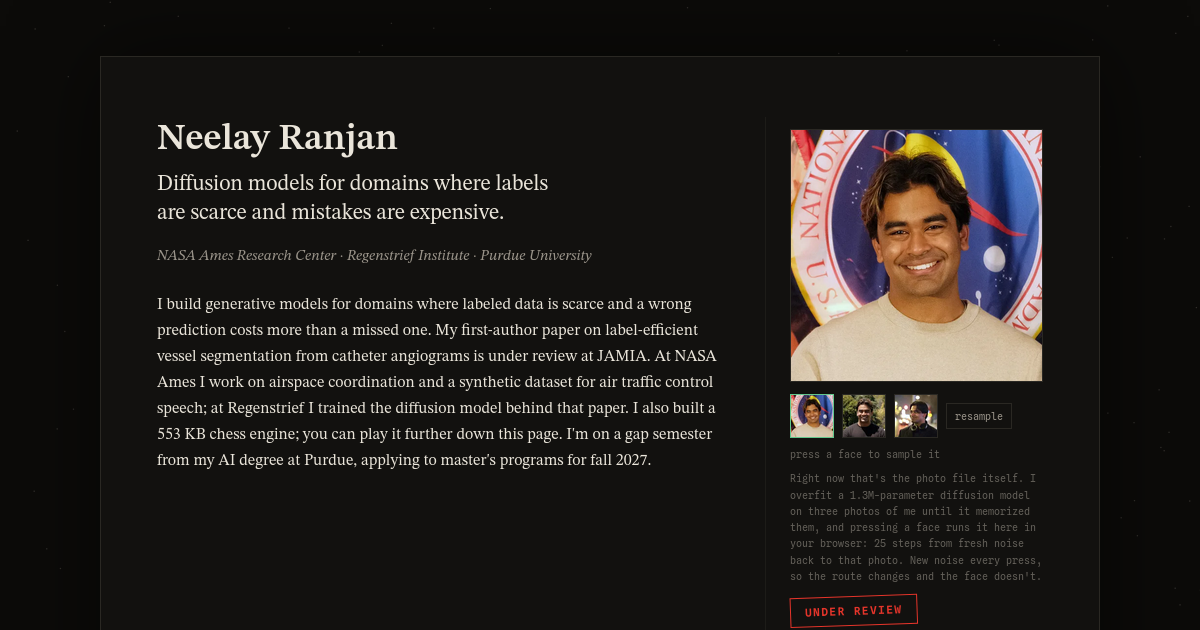
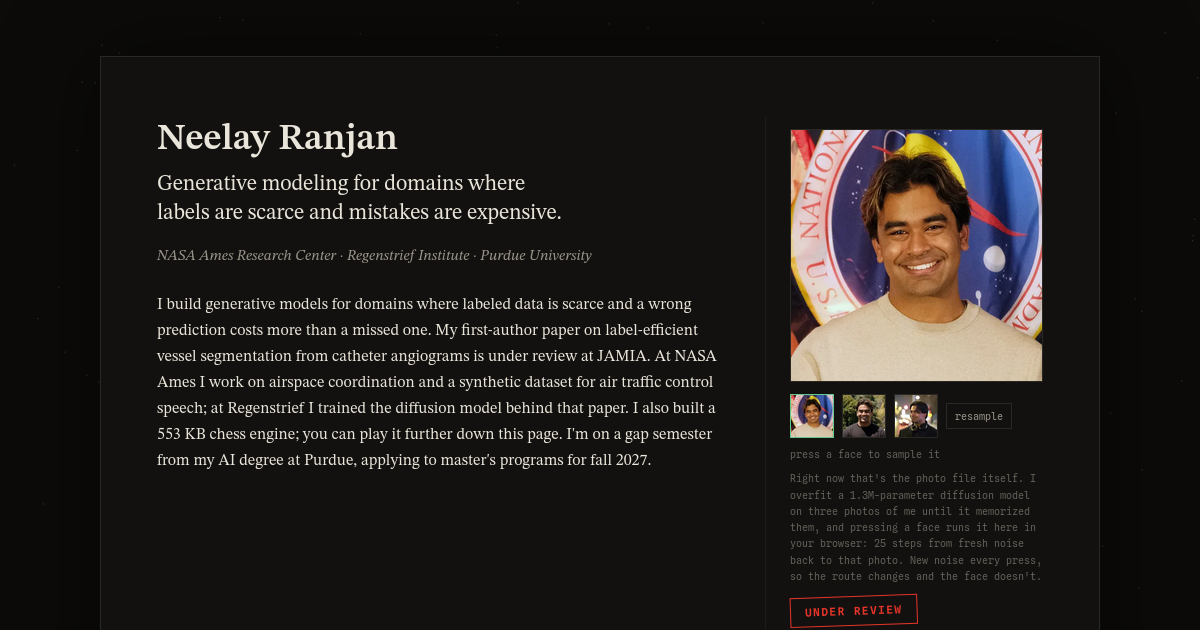
headline framing becomes generative modeling; docs refreshed for the next session
The owner's wording change: the page title, the masthead tagline and
the share blurb now say "generative modeling" instead of "diffusion".
Diffusion stays the concrete specialty in the body copy and figures.
The OG card is regenerated so the unfurl shows the new tagline.

README.md is brought up to date: 15 verify checks plus the hand-run 256
script, the label-efficiency figure in place of the retired wipe, chess
before draw, @vercel/analytics among the runtime deps and its own short
section, the dev-on-3001 / verify-on-3000 convention, prepare-research's
new flags and its test_predictions input, and the image_index vs image_id
trap. CLAUDE.md records the framing call, the analytics dashboard step as
an owner open item, the OG card's page-top rule, and corrects the stale
rationale for verify-headshot-256.mjs.

15 checks, all passing.

Changed region(s): [[0.1233, 0.2714, 0.4625, 0.3619]]

diff --git a/content/copy.ts b/content/copy.ts
@@ -65,12 +65,12 @@
 export const copy = {
   /** <title>, meta description, and the share-card (OG/Twitter) text. */
   meta: {
-    title: "Neelay Ranjan · diffusion for data-scarce, safety-critical systems",
+    title: "Neelay Ranjan · Generative modeling for data-scarce, safety-critical systems",
     siteName: "neelayranjan.dev",
     /** The unfurl description. Concrete, because a share card is the one place a
      *  recruiter or admissions reader sees before deciding whether to click. */
     blurb:
-      "I build diffusion models for domains where labels are scarce and mistakes " +
+      "I build generative models for domains where labels are scarce and mistakes " +
       "are expensive: vessel segmentation from 16 labeled angiograms, a chess " +
       "engine that fits in 553 KB, a transformer that synthesizes a day of FAA " +
       "flight traffic. The chess engine runs live on this page, in your browser, " +
@@ -86,7 +86,7 @@ export const copy = {
      *  Both live inside the single h1, so the page title reads as before. */
     titleName: "Neelay Ranjan",
     titleTagline:
-      "Diffusion models for domains where labels are scarce and mistakes are expensive.",
+      "Generative modeling for domains where labels are scarce and mistakes are expensive.",
     affiliation: "NASA Ames Research Center · Regenstrief Institute · Purdue University",
     /** ~80 words, first person. Numbers here are load-bearing: keep them in
      *  sync with `research.prose` and CLAUDE.md's content facts. */

diff --git a/README.md b/README.md
@@ -1,7 +1,7 @@
 # neelayranjan.dev
 
 Personal portfolio, styled as a dark preprint: a sheet on a live particle-field
-desk, research rendered as interactive figures, and four trained models running
+desk, research rendered as interactive figures, and trained models running
 entirely in the visitor's browser. Shipped 2026-09-12; the previous
 faux-terminal site lives at git tag `v1`.
 
@@ -17,9 +17,9 @@ happens on the visitor's machine.
 
 ```bash
 npm install
-npm run dev          # http://localhost:3000
-npm run build        # production build
-npm start            # serve the build
+npx next dev --port 3001   # the dev server; :3000 is kept free for verification
+npm run build              # production build
+npm start -- -p 3000       # serve the build (what the verify suite targets)
 ```
 
 `predev`/`prebuild` run `scripts/sync-ort.mjs`, copying onnxruntime-web's WASM
@@ -30,68 +30,87 @@ build time.
 ### Verify before believing
 
 ```bash
-node scripts/verify-redesign.mjs           # all 14 checks, against npm start on :3000
+node scripts/verify-redesign.mjs           # all 15 checks, against npm start on :3000
 node scripts/verify-redesign.mjs chess cdf # any check-name substrings run a subset
+node scripts/verify-headshot-256.mjs       # hand-run: the 256 headshot + morph, in node
 node scripts/check-voice.mjs               # copy.ts voice gate (banned words, em-dashes)
 ```
 
 The suite is Playwright-Firefox against a real production build and asserts
 behavior, not HTTP 200s: the desk field pauses under reduced motion, the chess
 hint returns validation vector D, the sampled headshot pixel-matches the photo
-that was pressed.
+that was pressed, the label-efficiency readouts match the served JSON, and a
+Resume click queues the analytics event production would send.
 
 ## The pages
 
-`/` is the paper and carries ~95% of the site: masthead (abstract, the sampled
-author photo, the UNDER REVIEW stamp linking `/lab`), Table 1, three research
-figures (mask wipe, pannable Dice CDF, the synthetic flight-day map), the two
-live demos (draw-a-digit, the chess engine), the experience board, references.
-`/lab` is the supplementary material: the trajectory viewer, MAE-vs-I-JEPA
-retrieval, and a hand-built (and labeled) DDPM-vs-flow-matching illustration.
+`/` is the paper and carries ~95% of the site: masthead (name, tagline,
+abstract, the sampled author photo, the UNDER REVIEW stamp linking `/lab`),
+Table 1, three research figures (the label-efficiency sweep with a mask strip,
+the pannable Dice CDF, the synthetic flight-day map), the two live demos (the
+chess engine, then draw-a-digit), the experience board, references. `/lab` is
+the supplementary material: the trajectory viewer, MAE-vs-I-JEPA retrieval,
+and a hand-built (and labeled) DDPM-vs-flow-matching illustration.
 
 ## Layout
 
 ```
 app/               routes (/, /lab, 404), globals.css (@theme tokens; no tailwind.config)
 components/
-  manuscript/      the design system: Sheet, Row/Note, InstrumentFigure, DeskField, …
+  manuscript/      the design system: Sheet, Row/Note, InstrumentFigure, DeskField, TrackedLink, …
   figures/         the research figures + headshot toy, and shared mask-paint
-  *.tsx            the demo panels (DrawDigit, ChessPanel, JepaPanel, …)
-lib/               loaders, encoders, vendored model math (never reimplemented)
+  *.tsx            the demo panels (ChessPanel, DrawDigit, JepaPanel, …)
+lib/               loaders, encoders, vendored model math (never reimplemented), track.ts
 content/copy.ts    every visitor-facing string
 public/            committed model artifacts and figure data
 scripts/           gates, generators, verification
 external_materials/  gitignored source data the figures are derived from
 ```
 
-Runtime deps are exactly `chess.js` and `onnxruntime-web`. No component
-libraries.
+Runtime deps are exactly `chess.js`, `onnxruntime-web` and `@vercel/analytics`.
+No component libraries.
+
+## Analytics
+
+Vercel Web Analytics: cookieless page views from `<Analytics />` in
+`app/layout.tsx`, plus two custom events defined only in `lib/track.ts`:
+`outbound_link {label}` (Resume, CV, GitHub, ORCID, Email, references) and
+`demo_used {demo}` (once per demo per page load, after real output). Web
+Analytics has to be enabled on the project in the Vercel dashboard. Nothing is
+recorded locally; the verify suite reads the pending `window.vaq` queue instead.
 
 ## Hand-run generators (never wired to prebuild)
 
 | script | what | needs |
 |---|---|---|
-| `prepare-research.mjs` | derives `public/research/` from the paper's data; asserts the headline number before writing; `--image N`, `--accept-csv-drift` | ffmpeg, `external_materials/` |
+| `prepare-research.mjs` | derives `public/research/` from the paper's data; asserts the headline number before writing; `--image N` (retired wipe), `--eff-image N` (Figure 1 strip), `--accept-csv-drift` (required: SAM's re-run masks are stochastic) | ffmpeg, `external_materials/` including `paper1/data/test_predictions/` (ships as base64-encoded `test_pred.zip`) |
 | `gen-icons.py` | the STIX-N favicon set from site tokens | python venv (fontTools, cairosvg) + the STIX variable TTF (see header) |
-| `gen-og.mjs` | screenshots the masthead into `public/og.png` | Playwright, server on :3000 |
+| `gen-og.mjs` | screenshots the top of the page into `public/og.png`; rerun after any masthead copy or layout change | Playwright, server on :3000 |
 | `measure-mono.mjs` | measures a mono's advance (why the ASCII grids keep Geist Mono) | Playwright, dev server |
 
 Outputs are committed; Vercel never runs any of these.
 
-## Two things that will bite you
+## Things that will bite you
 
 **COOP/COEP headers on every route** (`next.config.ts`) give WASM threads
 (draw's classifier: ~1s vs ~17s without). Any future cross-origin
 image/script/iframe needs CORP headers or `crossorigin="anonymous"`.
 
-**`/models/*`, `/ort/*`, `/headshot/*` are cached immutable for a year** —
+**`/models/*`, `/ort/*`, `/headshot/*` are cached immutable for a year**:
 filenames are the cache key, so a retrained model must ship under a new name.
+
+**The metrics CSV's `image_index` is not the image id.** Mask filenames and the
+benchmark are id-space; the CSV is index-space; each run's
+`per_image_metrics.csv` is the bridge. A filename-to-CSV join silently pairs
+the wrong images.
 
 ## The real documentation
 
 `CLAUDE.md` is the working design document: the constitution (never fake a
 model's output; a control is honest or absent), the content facts the copy is
-bound to, every demo's contracts and traps, the figure data pipeline, and the
-measured numbers — several of which contradict a reasonable guess. Read it
-before changing anything with a comment that sounds defensive; the comment is
-probably load-bearing. `docs/v1-design-notes.md` is the v1 archive.
+bound to, every demo's contracts and traps, the figure data pipeline, the open
+items, and the measured numbers, several of which contradict a reasonable
+guess. Read it before changing anything with a comment that sounds defensive;
+the comment is probably load-bearing. `docs/v1-design-notes.md` is the v1
+archive; `docs/superpowers/` holds the redesign's original spec and plan
+(history, superseded where CLAUDE.md disagrees).

diff --git a/CLAUDE.md b/CLAUDE.md
@@ -35,7 +35,11 @@ its mask strip (x0, SAM and ResNet-UNet across the budgets, image 333).
 Same day: the masthead h1 split into the name at display size and the thesis
 line smaller beneath it (`titleName` / `titleTagline`), and the OG card was
 regenerated (`gen-og.mjs` now frames the top of the page; its old scroll-to-
-Table-1 logic cut the name off once the headshot rail grew).
+Table-1 logic cut the name off once the headshot rail grew). Also 2026-09-13:
+Figure 1's strip image became 333 (x0 must visibly beat SAM at 16 labels),
+its whiskers went faint, chess moved ahead of draw, Vercel Web Analytics was
+wired (see Stack), and the headline framing became "generative modeling"
+(title, tagline, share blurb; OG card regenerated to match).
 
 **Verification: `scripts/verify-redesign.mjs`** — 15 named checks,
 Playwright-Firefox against a real `npm run build && npm start` on :3000, never
@@ -82,8 +86,13 @@ change touching a demo, a figure, or the page shell.
    `init+strength` case is a structural smoke (step count + finiteness), so the
    forward-noising branch is unpinned vendored math. Ask the model owner for an
    init+strength case in `vectors/`.
-4. The mobile draw-demo bugs (Known bugs below) are open.
-5. Much later: a third headliner demo, a **live network-security honeypot**
+4. **Enable Web Analytics in the Vercel dashboard** (owner step; the site side
+   shipped 2026-09-13). Until it's on, production's `/_vercel/insights/script.js`
+   404s and nothing records. Then confirm the plan ingests custom events: an
+   empty Events tab after real clicks means it doesn't. The Vercel connector in
+   this environment reports zero teams, so neither can be checked from here.
+5. The mobile draw-demo bugs (Known bugs below) are open.
+6. Much later: a third headliner demo, a **live network-security honeypot**
    (exposed Pi, malicious ssh/https logged, LLM-categorized into a live UMAP
    of attack families). Needs a live-data seam the static site doesn't have;
    the systems figure column is trivially appendable when it comes.
@@ -96,6 +105,10 @@ and the owner's SOP tell one story.
 - Audience: industry recruiters AND masters admissions committees. **Admissions
   wins conflicts.** Visitor actions that matter, in order: open the resume, read
   the paper.
+- **Public framing is "generative modeling" (owner call, 2026-09-13)**: the page
+  title, the masthead tagline and the share blurb all say generative modeling,
+  not diffusion. Diffusion stays the concrete specialty in the body copy and the
+  figures; don't revert the headline framing to "diffusion".
 - Takeaway to leave: specializes in diffusion modeling, with wide range around it
   (aerospace, medical, embedded), competent and current in the field.
 - **The site and the owner's SOP tell one story.** Admissions readers will see
@@ -290,8 +303,9 @@ work is real. (Code comments and this file are maintainer-facing and exempt.)
   never wired to prebuild** — Vercel's image has neither toolchain. Their
   outputs are committed. The favicon is the owner's mark (2026-09-12): STIX "N"
   in ink on the paper tile with stamp-red corner brackets; edit the script's
-  token constants and re-run rather than hand-editing the four app/ icon files. The OG card screenshots the live hero, so it must be
-  regenerated when the new hero ships; `metadataBase` in `layout.tsx` is required
+  token constants and re-run rather than hand-editing the four app/ icon files. The OG card screenshots the TOP of the live page
+  (name, tagline, abstract, headshot rail; it refuses to write a card whose h1
+  is outside the frame), so re-run it after ANY masthead copy or layout change; `metadataBase` in `layout.tsx` is required
   or `/og.png` never resolves in unfurls.
 - The chess worker must stay a literal
   `new Worker(new URL("./chess-worker.ts", import.meta.url), { type: "module" })`
@@ -461,8 +475,10 @@ work is real. (Code comments and this file are maintainer-facing and exempt.)
   same gate).
 - **The 256 + morph path has its own hand-run script:
   `node scripts/verify-headshot-256.mjs`** against the same prod build on :3000.
-  It exists because the Playwright check's 400px viewport always lands on the
-  128, so nothing else in the repo ever touches the primary. It drives the
+  It was written when the Playwright check's 400px viewport always landed on
+  the 128; since the viewport gate was removed the browser check usually gets
+  the 256 too, but this script still carries the MAD thresholds and runs the
+  primary regardless of the machine's capabilities. It drives the
   site's vendored module against the SERVED bytes (fetched from the running
   server, not read off disk) and asserts: full step count from noise, the
   destination class winning decisively over both controls on both runs, and the
